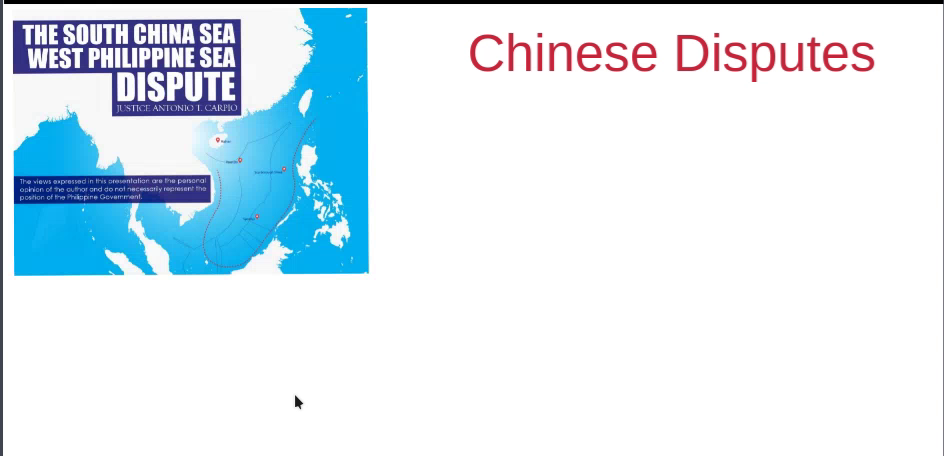
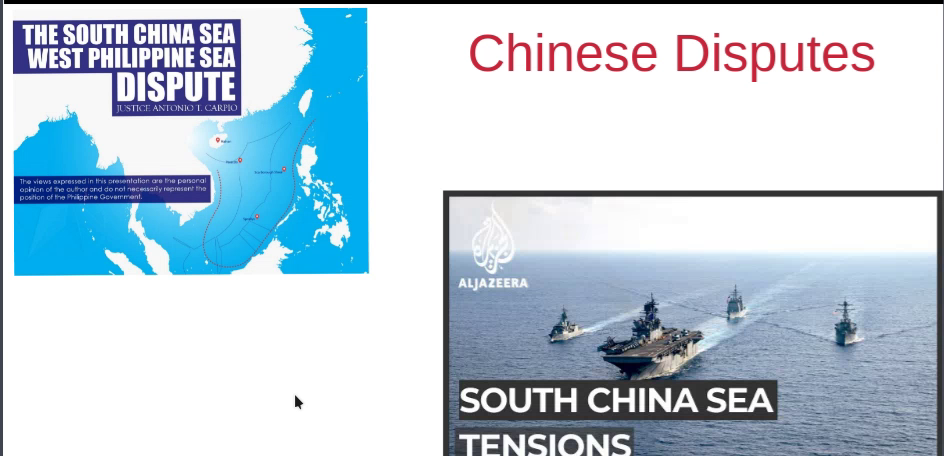
New method try 1, with concurrent slides for now

Changed region(s): [[0.4608, 0.3991, 1.0, 1.0]]

diff --git a/slide_check.py b/slide_check.py
@@ -1,7 +1,12 @@
 #! /usr/bin/env python
 import numpy as np
+import sys
+import matplotlib
+matplotlib.use('agg')
 
+import matplotlib.pyplot as plt
 
+import cv2 as cv
 class SimpleSlideChecker:
     def __init__(self, width, height, **kwargs):
         self.params = {
@@ -11,12 +16,51 @@ class SimpleSlideChecker:
         }
         self.params.update(kwargs)
 
-        self.bg = np.array((255, 255, 255,)).reshape((1, 1, -1))
+        self.bg = np.array((255,))
         self.n_pixels = width * height
+
+    def toblackwhite(self, frame):
+        gray_image = cv.cvtColor(frame, cv.COLOR_BGR2GRAY)
+        frame_threshed = cv.adaptiveThreshold(gray_image,255,cv.ADAPTIVE_THRESH_GAUSSIAN_C, \
+            cv.THRESH_BINARY,11,2)
+        return frame_threshed/255
+
+    def toBackgroundScore(self,frame,prev):
+
+        score= (np.sum((frame-prev)[prev==0]))/(frame.shape[0]*frame.shape[1]-np.sum(prev))
+     
+        if not np.isnan(score):
+            return round(score,3)
+        else:
+            return 0
+
+    def changeratiobackground(self,frame,prev):
+        totalchange=np.sum(np.abs(frame-prev))
+        temp=(prev-frame)
+        changebg=np.sum(temp[prev==0])
+        return round(-changebg/totalchange,3)
+
 
     def check(self, frame: np.ndarray, prev=None) -> bool:
         if prev is None:
             return True
+
+        frame_threshed = self.toblackwhite(frame)
+        prev_threshed = self.toblackwhite(prev)
+        
+        back_score=self.toBackgroundScore(frame_threshed,prev_threshed)
+        changeratio=self.changeratiobackground(frame_threshed,prev_threshed)
+
+        print(back_score)
+        print('back_score: {} and change_ratio: = {}'.format(back_score,changeratio))
+
+        if changeratio!=0 and changeratio<0.6 and back_score>0.03:
+            return True
+        else:
+            return False
+
+        sys.exit()
+       
 
         bg = ((prev - self.bg) ** 2).sum(axis=2) < self.params['cdist_threshold']
         changed = ((frame - prev) ** 2).sum(axis=2) > self.params['changed_cdist_threshold']
